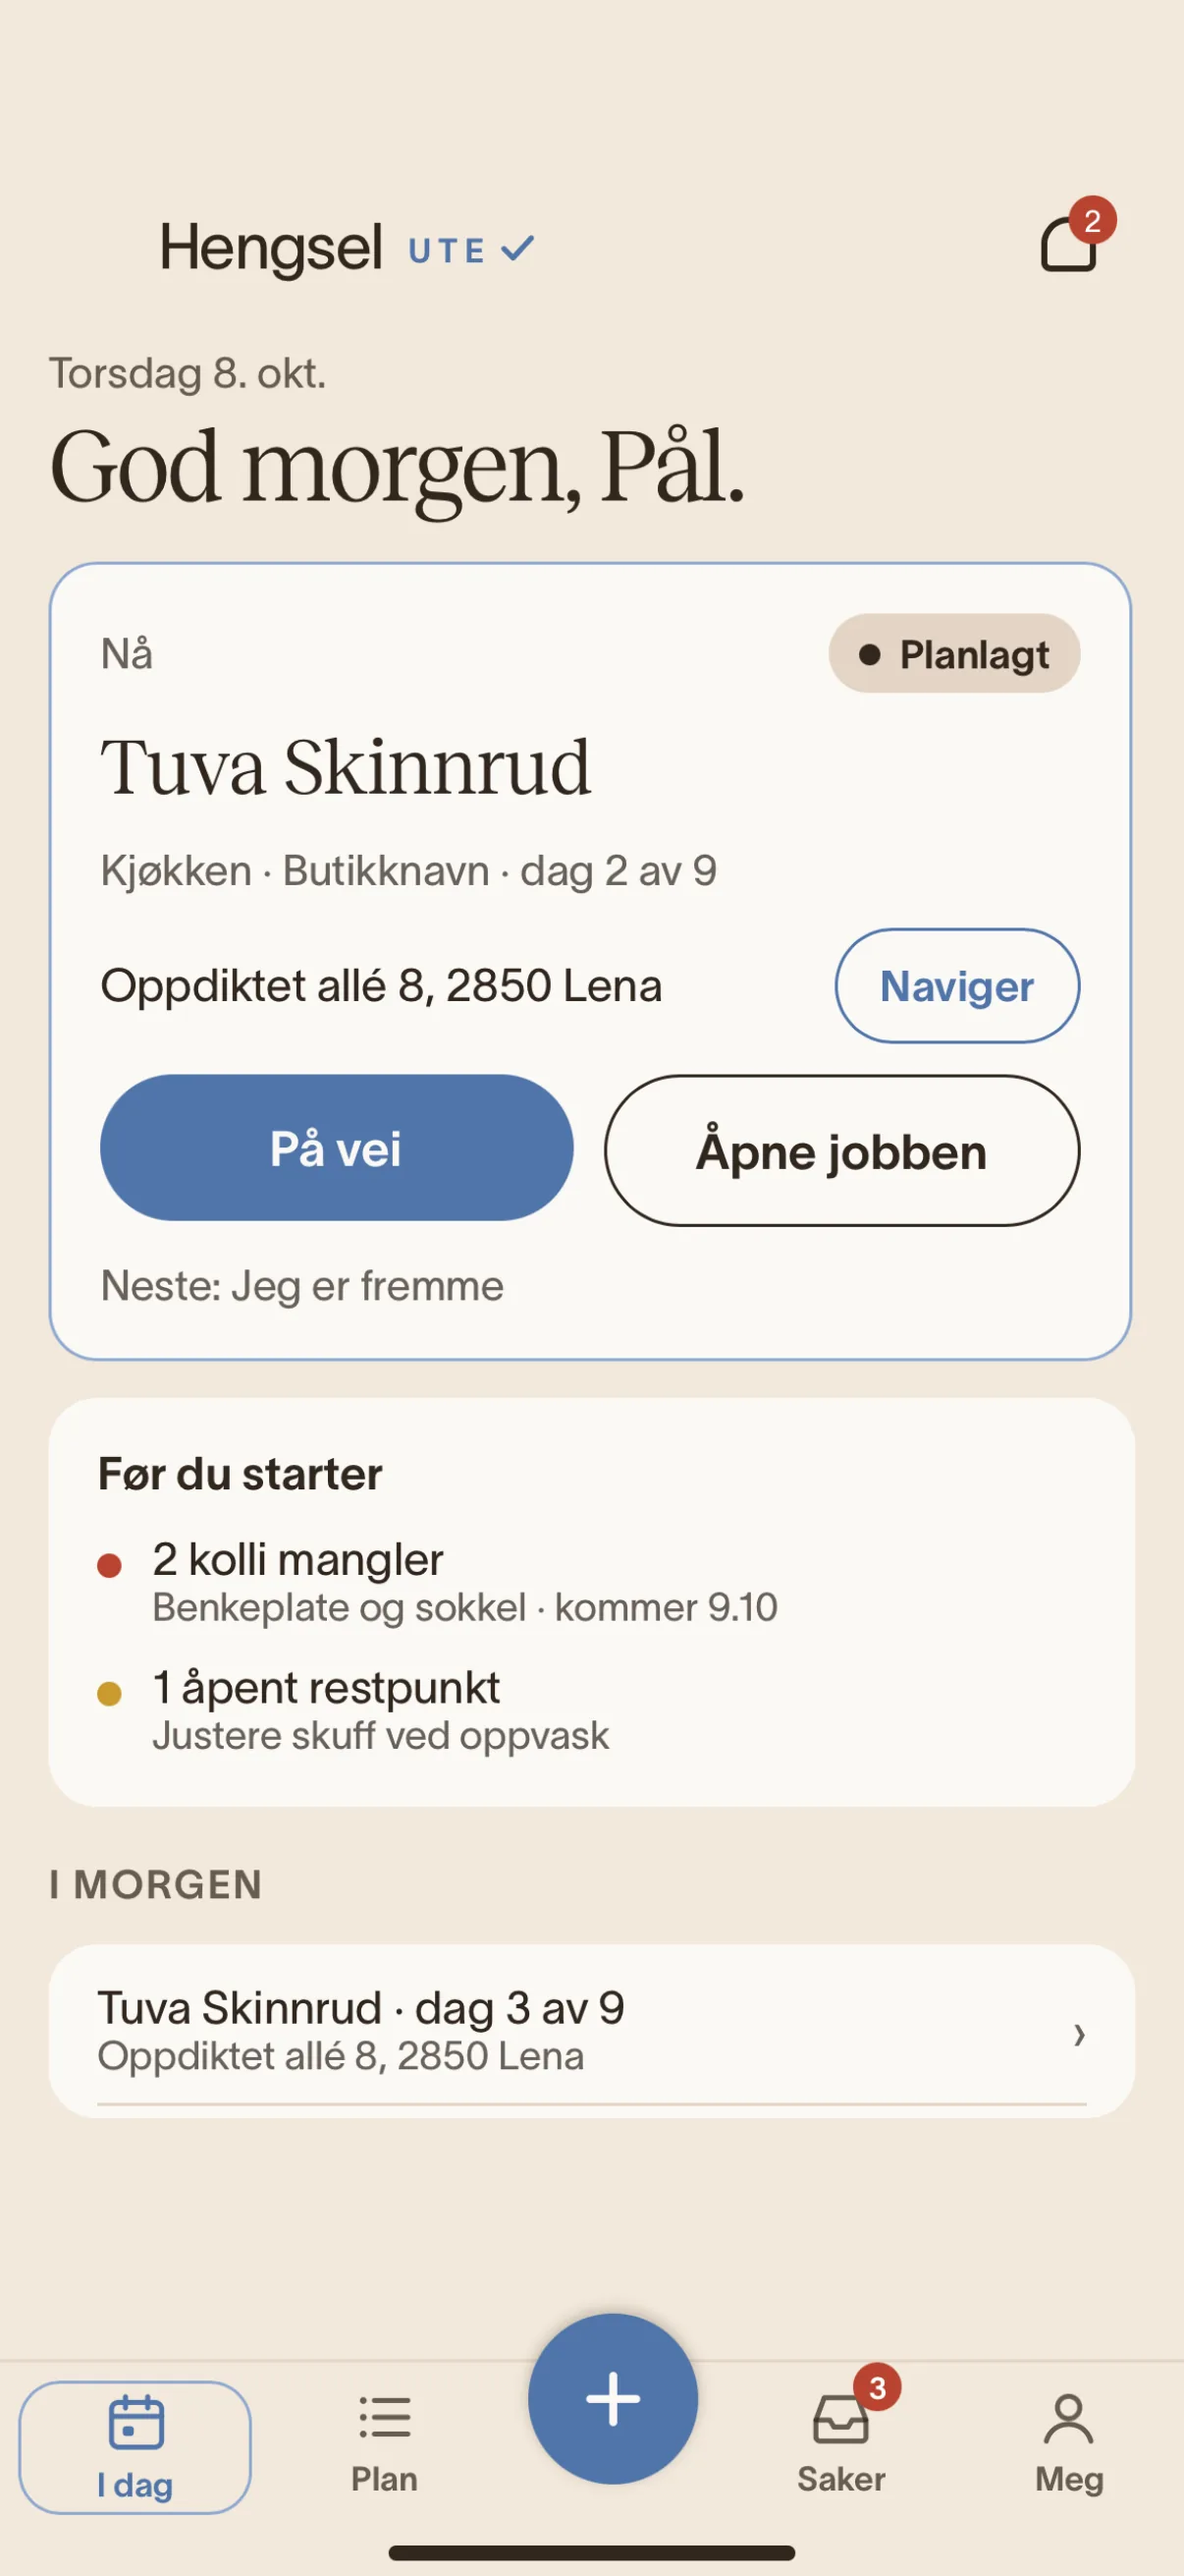
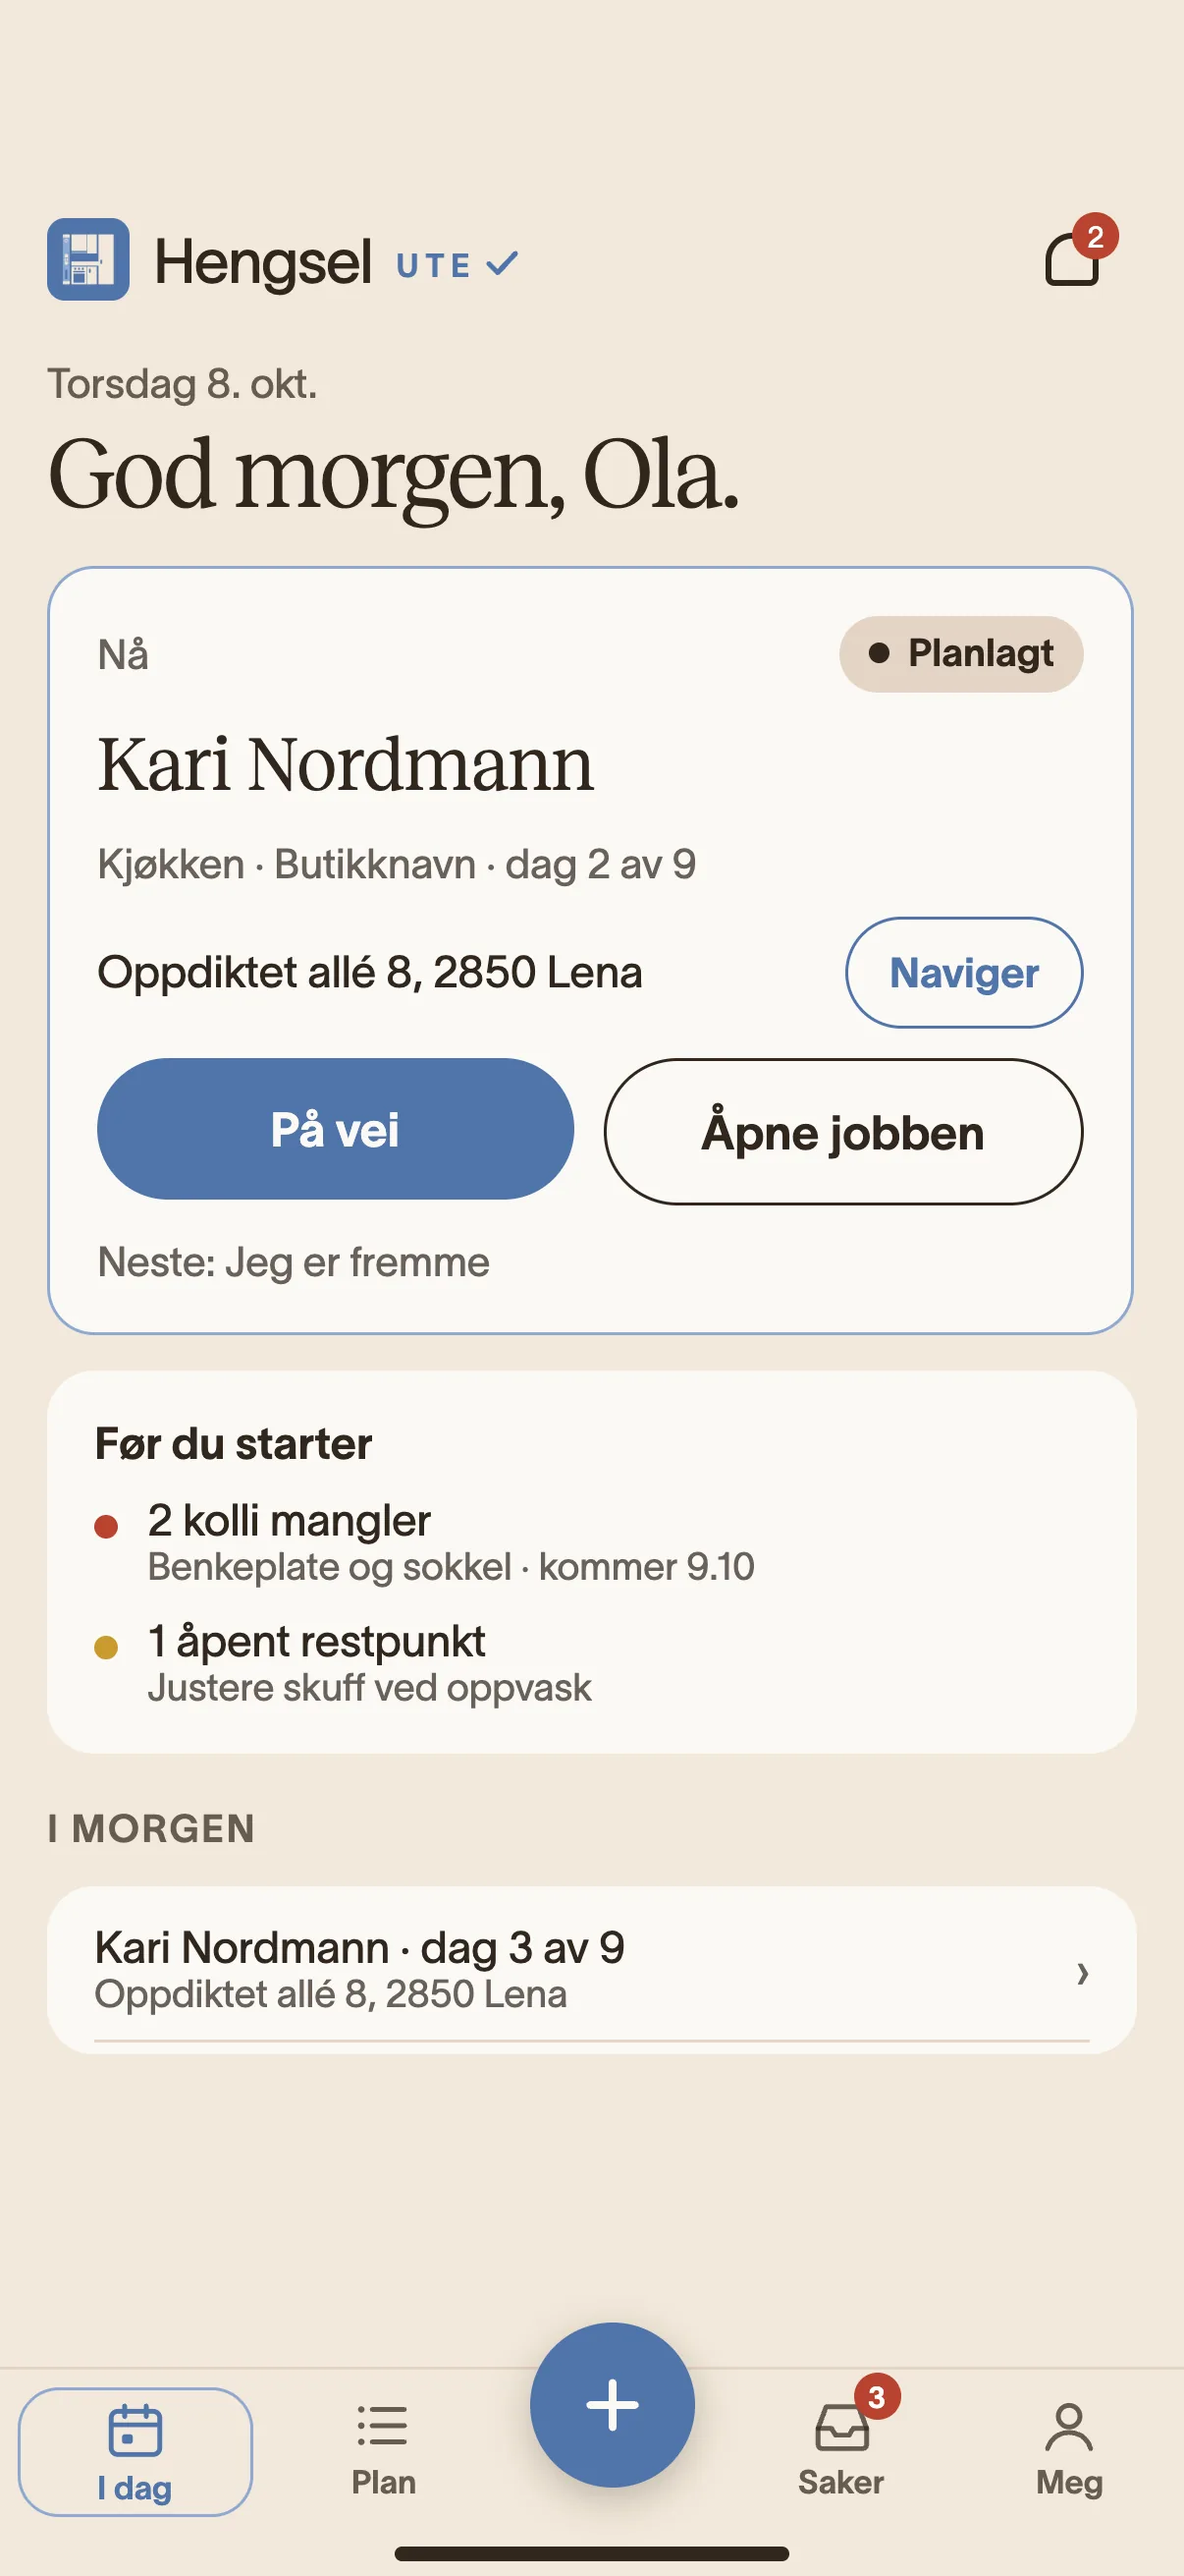
hengsel.no: pakke v5 (montasjeplan, ute-i-dag, ute-ks)
- Fanen «Montasjeplan» viser pc/crm-montasje fra v5 (uke 42 per montør og montasjefirma) i stedet for crm-ordre-kontrollmal.
  crm-ordre-kontrollmal er ikke i bruk lenger (v5: bare der det handler om kontrollmål) og er fjernet.
- ute-i-dag og ute-ks er byttet til v5 (Kari Nordmann og Ola) i hero, steg, grep og /apptest.
- v5 ute-ks viser kameraet, som ute-ks-kamera (v3). KS-raden i grep 4 har derfor én telefon, og ute-ks-kamera er fjernet.
- docs/bilder.md, bilder.ts og skjermbilder.mjs følger filene.

Claude-Session: https://claude.ai/code/session_01BRrEhvCqcmW68z484NgJ5s

diff --git a/sites/hengsel/src/content/forside.ts b/sites/hengsel/src/content/forside.ts
@@ -51,7 +51,7 @@ export const GREP: [string, string, string, string, string?, string?][] = [
   ["I dag", "Neste jobb øverst, med adresse, hva som mangler og åpne restpunkter. «På vei» varsler kunden.", "ute-i-dag", "Hengsel Ute: I dag med neste jobb"],
   ["Befaring med laser", "Bosch-laseren kobles til over Bluetooth. Velg et mål på bildet, trykk på laseren, og tallet står der med kilde.", "ute-laser", "Hengsel Ute: mål på bildet fra Bosch-laser"],
   ["Varer og tegning på jobben", "Tegning og spesifikasjon, mål og skisser, bilder og restpunkter samlet på jobben. Før, under og etter.", "ute-jobb-under", "Hengsel Ute: jobben under arbeid"],
-  ["KS punkt for punkt", "OK, avvik eller ikke relevant. Punkter som krever bilde åpner kameraet med en gang.", "ute-ks", "Hengsel Ute: KS-sjekkliste med punkt som krever bilde", "ute-ks-kamera", "Hengsel Ute: KS-punkt med kamera"],
+  ["KS punkt for punkt", "OK, avvik eller ikke relevant. Punkter som krever bilde åpner kameraet med en gang.", "ute-ks", "Hengsel Ute: KS-sjekkliste, OK på et punkt som krever bilde åpner kameraet"],
   ["Typeskilt på hvitevarer", "Fotografer typeskiltet. Modell og serienummer legges på produktene hos kunden og følger med til FDV og reklamasjon.", "ute-typeskilt", "Hengsel Ute: hvitevarer skannet fra typeskilt"],
   ["Avvik med bilde", "Hva som er galt, bilde og om det trengs ny vare. Saken går til butikken med en gang.", "ute-avvik", "Hengsel Ute: meld avvik"],
   ["Merking av punkter", "Punkter markeres rett på bildet og får et nummer som følger kunden fra befaring til reklamasjon. Før- og etterbilde på hvert punkt.", "ute-punkter", "Hengsel Ute: punktliste på kunden", "ute-punktkort", "Hengsel Ute: punkt med før- og etterbilde"],
@@ -61,7 +61,7 @@ export const GREP: [string, string, string, string, string?, string?][] = [
 /** For kontoret, fire faner: tittel, tekst, bilde, alt */
 export const KONTOR: [string, string, string, string][] = [
   ["Ledertavle", "Frister og tall for butikken, per selger og per uke. Det som haster står øverst.", "crm-resultater", "Hengsel CRM: ledertavle"],
-  ["Montasjeplan", "Hvem som monterer hva, når kontrollmålene må være tatt, og monteringskalkylen per jobb.", "crm-ordre-kontrollmal", "Hengsel CRM: kontrollmål på ordren med tildeling av montør"],
+  ["Montasjeplan", "Hvem som monterer hva, når kontrollmålene må være tatt, og monteringskalkylen per jobb.", "crm-montasje", "Hengsel CRM: montasjeplanen for uke 42 per montør og montasjefirma, med ikke planlagte ordrer til høyre"],
   ["Bestilling", "Bestilling per leverandør. Ordrebekreftelsen leses mot bestillingen, og avvik merkes.", "crm-bestilling", "Hengsel CRM: bestilling"],
   ["Økonomi", "Fakturastatus mot PowerOffice Go og etterkalkyle per ordre.", "crm-etterkalkyle", "Hengsel CRM: etterkalkyle"],
 ];

diff --git a/sites/hengsel/src/scripts/bilder.ts b/sites/hengsel/src/scripts/bilder.ts
@@ -1,12 +1,12 @@
 /**
- * Skjermbildene i public/img: mål i piksler for Enhet.astro (kilde: Apple-pakkene v4 og v3, 11.10.2026, se docs/bilder.md).
+ * Skjermbildene i public/img: mål i piksler for Enhet.astro (kilde: Apple-pakkene v5, v4 og v3, 11.10.2026, se docs/bilder.md).
  * Rammene (ramme-*.webp) er Apples Product Bezels med gjennomsiktig skjermhull; skjermbildene ligger under dem.
  */
 /** Bredde og høyde i piksler, så nettleseren kan sette av plass før bildet er lastet */
 export const MAAL: Record<string, [number, number]> = {
   "crm-bestilling": [2880, 1800],
   "crm-etterkalkyle": [2880, 1800],
-  "crm-ordre-kontrollmal": [2880, 1800],
+  "crm-montasje": [2880, 1800],
   "crm-resultater": [2880, 1800],
   "crm-tilbud": [2880, 1800],
   "kundeportal-pc": [2880, 1800],
@@ -19,7 +19,6 @@ export const MAAL: Record<string, [number, number]> = {
   "ute-i-dag": [1206, 2622],
   "ute-ipad-bildeverktoy": [2360, 1640],
   "ute-jobb-under": [1206, 2622],
-  "ute-ks-kamera": [1206, 2622],
   "ute-ks": [1206, 2622],
   "ute-laser": [1206, 2622],
   "ute-punkter": [1206, 2622],

diff --git a/docs/bilder.md b/docs/bilder.md
@@ -1,7 +1,7 @@
 # Skjermbilder og Apple-rammer på hengsel.no
 
-Kilde: pakke v4 (11.10.2026, `delt/pakke-v4/INSTRUKS.md`, ligger på grenen `demo`) for filene den har, og pakke v3 (`delt/pakke-v3/` på
-grenen `pakke-v3`) for resten. Rammene er Apples Product Bezels med gjennomsiktig skjermhull (`public/img/ramme-*.webp`, uendret fra
+Kilde: pakke v5 (`delt/pakke-v5/` på grenen `pakke-v5`) for `crm-montasje`, `ute-i-dag` og `ute-ks`, pakke v4 (`delt/pakke-v4/`, grenen
+`pakke-v4`) for filene den har, og pakke v3 (`delt/pakke-v3/`, grenen `pakke-v3`) for resten. Rammene er Apples Product Bezels med gjennomsiktig skjermhull (`public/img/ramme-*.webp`, uendret fra
 v3 til v4); skjermbildet ligger under rammen og klippes til hullet med hjørneradius, `object-fit: cover`, `object-position: top`
 (`src/components/Enhet.astro`). Rammen er ikke beskåret, vippet eller speilvendt, og har ingen skygge. Skjermbildene er WebP
 (kvalitet 80–82) laget av PNG-ene i pakkene, uten endring i oppløsning. Skjermhull (andel av rammen): tabellen i INSTRUKS.md; verdiene
@@ -11,22 +11,27 @@ står i `Enhet.astro`.
 
 | Sted | Ramme | Bilde (pakke) |
 |---|---|---|
-| Hero | Studio Display + iPhone 18 | `crm-tilbud` (v4) + `ute-i-dag` (v3) |
-| Sju steg 1 Befaring / 5 Montering / 6 Punkter og saker / 7 Ferdig og faktura | iPhone 18 | `ute-laser` / `ute-ks` / `ute-punkter` / `ute-ferdig` (v3) |
+| Hero | Studio Display + iPhone 18 | `crm-tilbud` (v4) + `ute-i-dag` (v5) |
+| Sju steg 1 Befaring / 5 Montering / 6 Punkter og saker / 7 Ferdig og faktura | iPhone 18 | `ute-laser` (v3) / `ute-ks` (v5) / `ute-punkter` (v3) / `ute-ferdig` (v3) |
 | Sju steg 2 Tilbud / 3 Ordre og bestilling | Studio Display | `crm-tilbud` (v4) / `crm-bestilling` (v3) |
 | Sju steg 4 Levering | iPhone 18 | `portal-levering` (v4, kundeportalen) |
-| Hengsel Ute, åtte grep | iPhone 18 | `ute-i-dag`, `ute-laser`, `ute-jobb-under`, `ute-ks` + `ute-ks-kamera`, `ute-typeskilt`, `ute-avvik`, `ute-punkter` + `ute-punktkort`, `ute-ferdig` (v3) |
+| Hengsel Ute, åtte grep | iPhone 18 | `ute-i-dag` (v5), `ute-laser`, `ute-jobb-under`, `ute-ks` (v5), `ute-typeskilt`, `ute-avvik`, `ute-punkter` + `ute-punktkort`, `ute-ferdig` (v3) |
 | Merking på iPad | iPad liggende | `ute-ipad-bildeverktoy` (v4, 2360 × 1640) |
-| For kontoret (fire faner) | Studio Display | `crm-resultater` (v3, Ledertavle), `crm-ordre-kontrollmal` (v4, Montasjeplan), `crm-bestilling` (v3), `crm-etterkalkyle` (v3) |
+| For kontoret (fire faner) | Studio Display | `crm-resultater` (v3, Ledertavle), `crm-montasje` (v5, Montasjeplan), `crm-bestilling` (v3), `crm-etterkalkyle` (v3) |
 | Kundeportalen | MacBook | `kundeportal-pc` (v4) |
 | Kundeportalen, under PC-skjermen | iPhone 18 ×4 | `portal-tilbud`, `portal-levering`, `portal-montering`, `portal-fdv` (v4) |
-| /apptest | iPhone 18 ×3 | `ute-i-dag`, `ute-ks`, `ute-laser` (v3) |
+| /apptest | iPhone 18 ×3 | `ute-i-dag`, `ute-ks` (v5), `ute-laser` (v3) |
 
 ## Valg og avvik
 
-- **`crm-montasje` (v3) er ikke brukt**, slik v4 sier (den viser kontrollmål, og designfilene har ingen montasjeplan på PC). Fanen
-  «Montasjeplan» viser i stedet `crm-ordre-kontrollmal` (kontrollmål og tildeling av montør), som passer teksten om hvem som monterer
-  hva og når kontrollmålene må være tatt. Fjernet også: `crm-min-dag`, `portal-kjokken`, `kundeportalen-pc`.
+- **Montasjeplan:** fanen viser `crm-montasje` fra v5 (Mer › Montasje › Montasjeplan, uke 42 per montør og montasjefirma). v3-bildet med samme
+  navn viste kontrollmål og er byttet ut. `crm-ordre-kontrollmal` (v4) er ikke i bruk lenger, siden v5 sier at den bare skal brukes der det
+  handler om kontrollmål, og ingen side gjør det; filen er fjernet. Fjernet tidligere: `crm-min-dag`, `portal-kjokken`, `kundeportalen-pc`.
+- **KS-raden (grep 4) har én telefon:** `ute-ks` i v5 viser nå kameraet (OK åpner kameraet), akkurat som `ute-ks-kamera` fra v3. To bilder
+  ville vist samme skjerm to ganger, så `ute-ks-kamera` er tatt ut.
+- **Navn i bildene (v5):** `ute-i-dag` og `ute-ks` har Kari Nordmann og Ola. De andre Ute-bildene fra v3 (`ute-jobb-under`, `ute-laser`,
+  `ute-punkter`, `ute-punktkort`, `ute-avvik`, `ute-ferdig`, `ute-typeskilt`) kan fortsatt ha de gamle navnene (Tuva Skinnrud, Pål); v5 sier fra
+  hvis de skal tas på nytt. Det gjelder også `ute-i-dag`/`ute-ks` på /apptest (nå v5).
 - Steg 4 (Levering) viser `portal-levering` («Bekreft leveringsdag») i stedet for et CRM-bilde; stegets undertekst heter «Kundeportalen».
 - De fire portalbildene under MacBook-skjermen følger lista over kundeportalen (tilbud, leveringsdag og montering, FDV). Ny rad i
   `index.astro` (`.portal-telefoner`): fire telefoner på bred skjerm, to og to på smal. Ikke i fil 60 (som ikke ligger i repoet).
